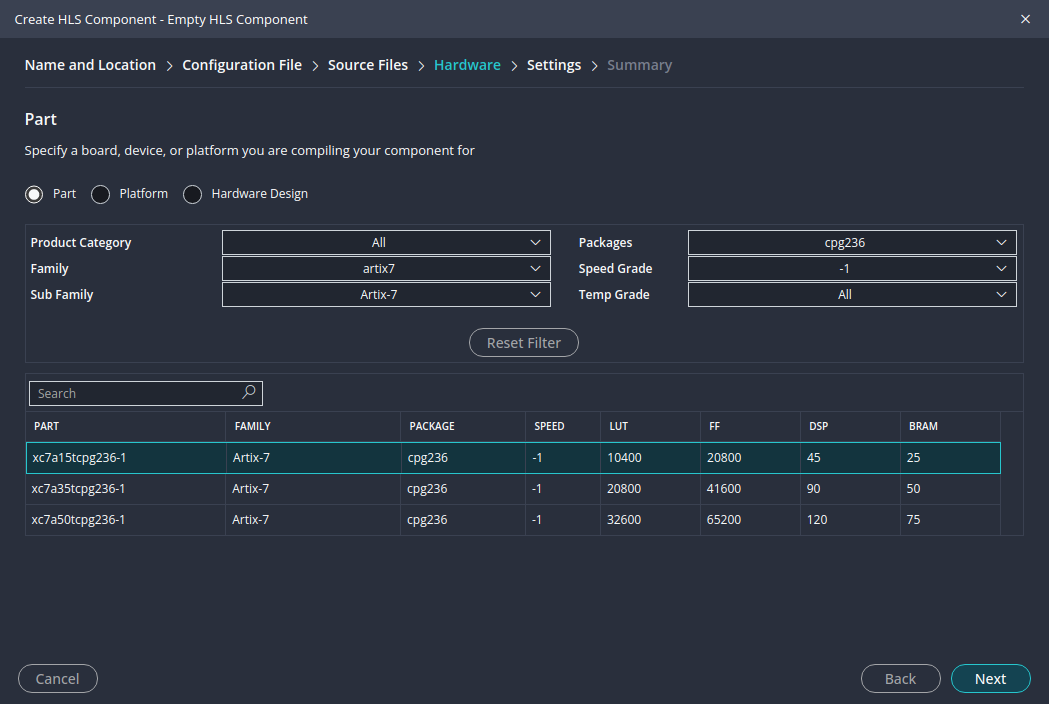
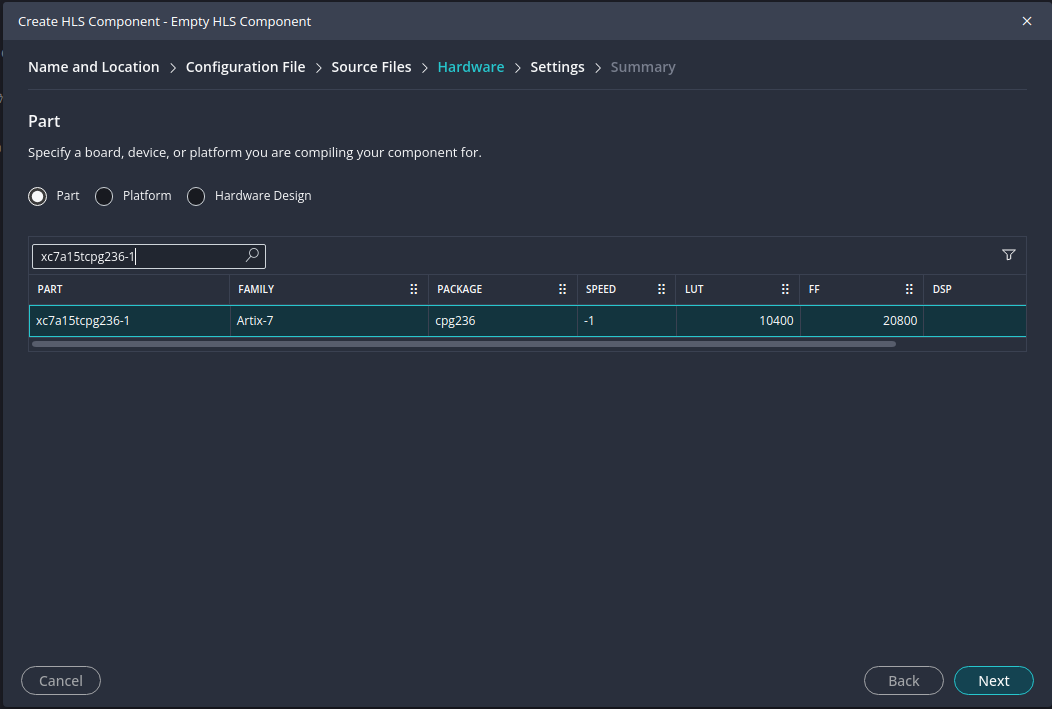
Update auf Vivado 26.1

diff --git a/vitis_hls/tutorial_01/tutorial_01.md b/vitis_hls/tutorial_01/tutorial_01.md
@@ -27,7 +27,7 @@ workspace_dir
 
 ---
 ## Starting Vitis
-* You can launch Vitis in a terminal on the command line by using the following command (replace `<Vitis_Installation_Directory>/` with the path to your Vitis installation which should normally be `/opt/xilinx/Vitis/2024.1/`), where `<workspace>` indicates the workspace mentioned in [Workspaces and components](#workspaces-and-components):
+* You can launch Vitis in a terminal on the command line by using the following command (replace `<Vitis_Installation_Directory>/` with the path to your Vitis installation which should normally be `/opt/xilinx/2026.1/Vitis/`), where `<workspace>` indicates the workspace mentioned in [Workspaces and components](#workspaces-and-components):
 
 ```
 source <Vitis_Installation_Directory>/settings64.sh
@@ -35,7 +35,7 @@ vitis  -w <workspace>
 ```
 
 * Or you can start the Vitis GUI without a workspace with the command `vitis` on the command line and select an existing workspace in the Vitis GUI.
-* For the tutorial make a folder with the file manager (for example in your home directory) to be used as a workspace and start the Vitis GUI as described above. You should see the Vitis GUI as shown in the following image (There are already some recent workspaces in the image which you will not see when you open your Vitis IDE).
+* For the tutorial make a folder with the file manager (for example in your home directory) to be used as a workspace and start the Vitis GUI as described above. You should see the Vitis GUI as shown in the following image.
 
 ![Vitis GUI](images/hls_01.png)
 
@@ -68,15 +68,14 @@ vitis  -w <workspace>
 ![Source page](images/hls_04.png)
 
 
-* The _Select Part_ page of the wizard is opened. It is mandatory to select the correct FPGA part for which the component should be used later on. For this tutorial we use the Artix-7 part as shown in the next image. Proceed with `Next`. 
+* The _Select Part_ page of the wizard is opened. It is mandatory to select the correct FPGA part for which the component should be used later on. For this tutorial we use the Artix-7 part (xc7a15tcpg236-1) as shown in the next image. Proceed with `Next`. 
 
 ![Select part page](images/hls_05.png)
 
 
 * You will now see the _Settings_ page of the wizard. 
-	* The _Settings_ page lets you specify a clock period or frequency for the design, and a clock uncertainty. The default clock for the tool is a clock period of 10 ns (or 100 MHz), and a clock uncertainty of 27%. In this case enter the default clock frequency of 10 ns but change the uncertainty to 2 ns as shown in the image below.
-	* The _Settings_ page also lets you specify the _flow_target_ for the HLS component build process as being either to generate a Vivado IP or a Vitis kernel as described in [Target Flow Overview](https://docs.amd.com/r/4lwvWeCi9jb~DWzdfWuVQQ/P4DbGaxyPEWYEJfsO7o1Dw) in the Xilinx User Guide. The interface requirements of the Vivado IP or a Vitis kernel are different as explained in [Interfaces of the HLS Design](https://docs.amd.com/r/4lwvWeCi9jb~DWzdfWuVQQ/wEdlxulOAT50bjDEn06U5Q). The default _flow_target_ is the Vivado IP flow. Keep these default settings for this tutorial.
-	* Below the _flow_target_ you can also specify the _package.output.format_ for the tool to generate when packaging the design. The default output format is the Vivado IP, which generates a zip-file to be added to your IP catalog, letting you use the HLS generated RTL design in other designs.
+	* The _Settings_ page lets you specify a clock period or frequency for the design, and a clock uncertainty. The default clock for the tool is a clock period of 10 ns (or 100 MHz), and a clock uncertainty of 27%. In this case enter the default clock frequency of 10 ns but set the uncertainty to 2 ns as shown in the image below.
+	* The _Settings_ page also lets you specify the _package.output.format_ for the HLS component build process as being either to generate a Vivado IP or a Vitis kernel as described in [Target Flow Overview](https://docs.amd.com/r/4lwvWeCi9jb~DWzdfWuVQQ/P4DbGaxyPEWYEJfsO7o1Dw) in the Xilinx User Guide. The interface requirements of the Vivado IP or a Vitis kernel are different as explained in [Interfaces of the HLS Design](https://docs.amd.com/r/4lwvWeCi9jb~DWzdfWuVQQ/wEdlxulOAT50bjDEn06U5Q). The default is the Vivado IP flow (_ip_catalog_). Keep these default settings for this tutorial.
 	* The data you entered here and above are all stored in the configuration file.
 	* Select `Next` to proceed to the Summary page.
 
@@ -112,7 +111,7 @@ workspace_dir
 * The first step in a HLS project is to verify the correct function of the C code of the component. In order to test the component a _test bench_ is needed, which generates input data for the component and compares the output data with reference data. This is the same approach as in VHDL/Verilog design, the difference is that everything is coded in C/C++. So what we basically do here is to compile the code for the testbench and component and run the compiled code as application. 
 * First open the C sources in Vitis with the _Component Explorer_ and study the code for the component (`fir.c`) and the testbench (`fir_test.c`). In the component code you can see a loop _Shift_Accum_Loop_ which codes the functionality of an FIR filter with a shift register `shift_reg[N]` where the coefficients (argument `c[N]`) are multiplied with the shifted data and accumulated in the variable `acc` and returned via the pointer `y`. It is good practice to label loops in order to be able to identify them during analysis of the HLS synthesis results.  
 * The testbench (`fir_test.c`) defines the coefficients for the FIR filter in the variable `taps[N]`. In line 18 the file `out.gold.dat` is opened which contains the input data and the expected output data for comparison. In the loop the input and reference data is read and the component top level function is called in line 26. Finally the output data generated by the component is compared and an error flag is set, if there are discrepancies. An HLS testbench, i.e. the main function, needs to return a value, which is 0 in case of success and 1 if the output data of the component is not correct. This is important because the C/RTL Co-Simulation uses the same testbench and also checks the output of the generated VHDL or Verilog code against the reference data. This means that an HLS testbench always must be written in such a way that it is self-checking and generates a final pass (0) or fail (1) value as return value.
-* Run the C Simulation by pushing the `Run` button in the _Flow Navigator_ under `C Simulation`. A window will pop up and ask you if you want to enable the _Code Analyzer_, you can disable this feature for this tutorial. After simulation is completed you will see the output of the simulation below the editor window in the console area.  
+* Run the C Simulation by pushing the `Run` button in the _Flow Navigator_ under `C Simulation`. A window will pop up and ask you for some options, insert nothing and push `Run`. After simulation is completed you will see the output of the simulation below the editor window in the console area. You should see the PASS-Message from the testbench.
 * If you write yourself code you may want to use a debugger by pushing the `Debug` button instead of `Run`. Vitis now starts the debugger as shown in the image below. Here you have the standard debugger functions like _Continue_, _Step Over_, _Step Into_ etc. (marked in red). You can also watch the variables (marked in red) or set break points in the source code editor. It is very similar in functionality to the debugger in Visual Studio Code. For more information on the debugger you can consult the [Xilinx User Guide](https://docs.amd.com/r/en-US/ug1399-vitis-hls/Debugging-the-HLS-Component).
 * If you want to stop the debugger then push the red square button (`Stop`). In order to come back to the normal Vitis view, which you had before you started debugging, you have to push (most left pane) the _Vitis Components_ symbol (marked in green) in the tool bar .
 
@@ -121,16 +120,16 @@ workspace_dir
 
 ---
 ## C Synthesis
-* The most important step is the _C Synthesis_, which is in fact the High Level Synthesis (HLS) of the component coded in C/C++. To start the HLS go to the _Flow Navigator_ and push the `Run` button under `C Synthesis`. It will take some seconds depending on the compute power of your machine, when it is finished you will see _Synthesis finished successfully_ in the output console.
+* The most important step is the _C Synthesis_, which is in fact the High Level Synthesis (HLS) of the component coded in C/C++. To start the HLS go to the _Flow Navigator_ and push the `Run` button under `C Synthesis`. In the pop-up window push again `Run`. It will take some seconds depending on the compute power of your machine, when HLS is finished you will see _Synthesis finished successfully_ in the output console.
 * Go to the _Flow Navigator_, expand _REPORTS_ in the _C Synthesis_ section and push `Synthesis`. You should now see the synthesis report as shown in the next image. The most interesting informations are the _Timing Estimate_ and the _Performance & Resource Estimate_. As you can see in the report our constraint was a clock cycle time of _10 ns_ and Vitits estimates the critical path of the component to _6.86 ns_, so we have a slack of _3.14 ns_ which is comfortable. But this is only a rough estimate since the component has not yet be implemented. 
-* In the _Performance & Resource Estimate_ you can see the latency and interval values (16 clock cycles and 11 clock cycles). The latency is the time for one operation of the component, which means one operation lasts _16 x 10 ns = 160 ns_. The _Interval_ (shorthand for _Initiation Interval_) is the number of clock cycles before new inputs can be applied. Since we have 11 cycles for the _Interval_ this means that we could apply new input values before the operation of the component has finished (which takes 16 cycles). 
+* In the _Performance & Resource Estimate_ you can see the latency and interval values (16 clock cycles and 14 clock cycles). The latency is the time for one operation of the component, which means one operation lasts _16 x 10 ns = 160 ns_. The _Interval_ (shorthand for _Initiation Interval_) is the number of clock cycles before new inputs can be applied. Since we have 14 cycles for the _Interval_ this means that we could apply new input values before the operation of the component has finished (which takes 16 cycles). 
 * The performance is mainly determined by the loop, which iterates 11 times (_TRIP COUNT_). Each loop iteration needs 5 clock cycles (_ITERATION LATENCY_). The loop is operated in a pipelined manner, which you can also see in the report in the column _PIPELINED_. This means that loop iterations can start earlier, otherwise we would need _5 x 11 cycles = 55 cycles_ for all iterations. Loop pipelining is always applied automatically, since it is very effective. We will come back on pipelining in another tutorial.  
 
 ![Synthesis report](images/hls_10.png)
 
 * There are some more reports, for example the _Function Call Graph_, which shows you the function hierarchy (not really important for this tutorial). Another important report for analysis of the generated component hardware is the _Schedule Viewer_. If you open it you should see the scheduling of the hardware operation as shown in the next image. 
 * In the first column you will see some cryptic names, these refer to identifiers in the generated VHDL or Verilog code and represent operations in the hardware. In the upper row (marked in red) you will see numbers beginning from 0. These are the so-called _control states_ of the finite state machine (FSM), which controls the operation of the component. One control state equals one clock cycle. You can easily identify the loop _Shift_Accum_Loop_ which takes 5 cycles for one iteration (this corresponds to the value in the synthesis report). With the _Focus_ field (marked in red) you can set the focus to the loop, such that you can only inspect the loop. On the right side you can activate a legend (i-symbol marked in red).
-* Although this view may appear cryptic at a first glance, this is the main tool if you want to understand how the component operates and what could possibly be optimized. From experience the loops and memory accesses determine mainly the performance in terms of clock cycles and with some practice the schedule viewer can be helpful in analyzing the bottlenecks of your design. If you push one of the operations with the left mouse button you will see some green lines which show you the dependencies of the operations, which can be also helpful.
+* Although this view may appear cryptic at a first glance, this is the main tool if you want to understand how the component operates and what could possibly be optimized. The loops and memory accesses determine mainly the performance in terms of clock cycles and with some practice the schedule viewer can be helpful in analyzing the bottlenecks of your design. If you push one of the operations with the left mouse button you will see some green lines which show you the dependencies of the operations, which can be also helpful.
 
 ![Schedule viewer 1](images/hls_11.png)
 
@@ -146,35 +145,21 @@ workspace_dir
 
 ![VHDL code](images/hls_13.png)
 
-* Push the `Run` button in the section _C/RTL COSIMULATION_ in the _Flow Navigator_. When co-simulation has finished you should see the message marked in red in the next image in the console. In the console window there is a navigation area (marked in red) where you can switch between the console outputs of the tools.
-* Under _REPORTS_ select _ Cosimulation_ and you will see the _Performance & Resource Estimates_. If you compare this with the values of the synthesis report you may notice that the initiation interval is 15 cycles and not 11 cycles. If you scroll up in the console output there is a warning related to this problem:
-
-```
-WARNING: [HLS 200-626] This design is unable to schedule all read ports in the first II cycle. The RTL testbench may treat the design as non-pipelined
- ```
-* This is a pipelining issue, which means that new data can only be applied after 15 clock cycles. We will come back on pipelining issues in a later tutorial. 
+* Push the `Run` button in the section _C/RTL COSIMULATION_ in the _Flow Navigator_. In the pop-up window you can select under _hls.cosim.rtl_ if you either would like to verify the Verilog code (default) or the VHDL code. Select _vhdl_ and push `Run`. 
+* When co-simulation has finished you should see the message marked in red in the next image in the console. In the console window there is a navigation area (marked in red) where you can switch between the console outputs of the tools.
 
 ![Cosimulation](images/hls_14.png)
 
-* When you push on _Timeline Trace_ under the reports the timeline trace report is opened as shown in the next image. In our testbench `fir_test.c` we call the `fir` function 26 times and you see there are 26 executions of the hardware component in this view. Each execution needs 15 cycles, and there is always an overlap of 1 cycle, where new data is applied. So the total execution time is 390 cycles for all 26 executions of the component, which gives an average execution time of 15 clock cycles.
-
-![Timeline](images/hls_15.png)
-
-* You can see that there is also an additional report called `Wave Viewer`. This is basically starting the Vivado wave viewer where you could watch the waveform traces of the VHDL/Verilog simulation. It is greyed out by default and would need some special settings in the configuration file. We will skip this here.
+* You can see that there is also an additional report called `Wave Viewer`. This is basically starting the Vivado wave viewer where you could watch the waveform traces of the VHDL/Verilog simulation. It is greyed out by default and would need some special settings in the configuration file or in the pop-up window. We will skip this here.
 
 ---
 ## Package and Implementation
-* The last important step is to export the component as _IP Core_ such that it can be used in Vivado. Go to the _PACKAGE_ section in the _Flow Navigator_ and push `Run` (see image below). After a while you will see the message in the console marked in red which says that a zip-file `fir.zip` was generated in the folder `fir`, where the path is relative to the component folder such that you can find it in `<workspace>/fir/fir/fir.zip`. 
-* In addition the files of the IP Core are also generated in the Output section in the `impl` folder in the _Vitis Component Navigator_ as you can see in the image below (the true file path to this folder is `<workspace>/fir/fir/hls/impl`).
-
-![Package](images/hls_16.png)
+* The last important step is to export the component as _IP Core_ such that it can be used in Vivado. Go to the _PACKAGE_ section in the _Flow Navigator_ and push `Run` (see image below). Skip the entries in the pop-up window and push `Run` again. After a while you will see the message in the console marked in red which says that a zip-file `fir.zip` was generated in the folder `fir`, where the path is relative to the component folder such that you can find it in `<workspace>/fir/fir/fir.zip`. 
+* In addition the files of the IP Core are also generated in the Output section in the `impl` folder in the _Vitis Component Navigator_.
 
 * In order to use the IP Core in Vivado you have to include the folder `<workspace>/fir/fir` as a _repository_ in Vivado. Then you can use the IP Core in an _IP Integrator_ block diagram as shown in the image below. There are some options for the export which can all be specified in the configuration file, for more details refer to the [Vitis HLS documentation](https://docs.amd.com/r/en-US/ug1399-vitis-hls/Packaging-the-RTL-Design).
 
 ![Vivado](images/hls_17.png)
 
-* The very last step in the _Flow Navigator_ is _IMPLEMENTATION_, which is optional. If you push `Run` then logic synthesis and implementation (place&route) is run by running the corresponding Vivado tools in the background. Although it is not necessary to run the implementation (and it can take some time) it gives you the real numbers on resource usage and the critical path of the component. In the following image you see the results (report _Place and Route_) of the implementation in terms of resource usage and timing. You can see that the critical path (_CP_) is 5.692 ns and that is below that what HLS estimated (6.86 ns), so the estimate was too pessimistic. Finally things can change again with respect to the critical path when the component is embedded into a larger design in Vivado, but the target clock cycle of 10 ns should be safely achievable.
-
-![Vivado](images/hls_18.png)
-
+* The very last step in the _Flow Navigator_ is _IMPLEMENTATION_, which is optional. If you push `Run` then logic synthesis and implementation (place&route) is run by running the corresponding Vivado tools in the background. Although it is not necessary to run the implementation (and it can take some time) it gives you the real numbers on resource usage and the critical path of the component. 
 

diff --git a/vitis_hls/tutorial_01/tutorial_01_b.md b/vitis_hls/tutorial_01/tutorial_01_b.md
@@ -10,33 +10,31 @@
 ## Running the bash scripts
 * First download the complete folder `tutorial_01/reference_files` to your computer and rename the folder `reference_files` to `tutorial_01`. This folder will later on be your workspace which you will open in the Vitis GUI.
   * You can either download this whole Github repository or only the folder `reference_files` using a browser extension like [GitZip](https://gitzip.org).
-* We will first explain the folder structure of the workspace folder `tutorial_01`. In the workspace folder you find a bash script `run_demo.sh` which basically starts the two bash scripts `sol1.sh` and `sol2.sh` in the sub-folders `sol1` and `sol2`. These sub-folders hold the two variants or solutions (which are in the Vitis terminology two _components_ as explained above). What is also very important is the fact that all solutions use the same source code files in the folder `src`. This folder therefore must not be stored in a component folder but on the workspace level as shown below.
+* We will first explain the folder structure of the workspace folder `tutorial_01`. In the workspace folder you find two bash scripts `sol1.sh` and `sol2.sh`, which are used to run the two solutions. The solutions are stored in the folders `sol1` and `sol2`. In these folders the configuration files for the solutions are also stored.
+* All solutions use the same source code files in the folder `src`. This folder therefore must not be stored in a component folder but on the workspace level as shown below.
 
 ```
 tutorial_01
-    run_demo.sh
+    sol1.sh
+	sol2.sh
 	|-src
         ... (sources)
 	|-sol1
-		|-sol1_work
 		sol1_config.cfg
-        sol1.sh
 	|-sol2
-		|-sol2_work
 		sol2_config.cfg
-        sol2.sh
 ```
-* If you look into the bash script `sol1.sh` (`sol2.sh` is basically the same for `sol2`) you will find the following code. The first line says that this is a script to be executed as bash shell script. The second line sources the necessary settings from the Vitis installation. In the third line Vitis HLS is executed in script mode and with the `--config` switch we tell Vitis to use the configuration file, which can be found in the same folder. The last switch `--work_dir` specifies that this directory should be used for all output of Vitis. Do not confuse this directory with the Vitis workspace directory (which is in fact a bit confusing) which is the root directory `tutorial_01` in which we have the two components. 
+* If you look into the bash script `sol1.sh` (`sol2.sh` is basically the same for `sol2`) you will find the following code. The first line says that this is a script to be executed as bash shell script. The second line sources the necessary settings from the Vitis installation (check that this is the same path on your computer). In the third line Vitis HLS is executed in script mode and with the `--config` switch we tell Vitis to use the configuration file, which can be found in the solution folder. The last switch `--work_dir` specifies that this directory should be used for all output of Vitis. Do not confuse this directory with the Vitis workspace directory which is the root directory `tutorial_01` in which we have the two components. 
  
 ```
 #!/bin/bash
-source /opt/xilinx/Vitis/2024.1/settings64.sh
-v++ -c --mode hls --config ./sol1_config.cfg --work_dir sol1_work
+source /opt/xilinx/2026.1/Vitis/settings64.sh
+v++ -c --mode hls --config ./sol1/sol1_config.cfg --work_dir sol1
 ```
 
-* Before you can run the shell scripts you have to make them executable with `sudo chmod a+x run_demo.sh` (in a Linux terminal) and the same also for the two sub-scripts `sol1.sh` and `sol2.sh`.
-* Then go back to the workspace directory `tutorial_01` and execute the top-level script with `./run_demo.sh` (in a Linux terminal). You should now see the output of Vitis while it is executed. Basically the HLS step is executed for both variants.
-* When Vitis is finished open the Vitis GUI. On the Welcome page under _Get Started_ push the `Open Workspace` button. Navigate to the workspace folder `tutorial_01` and select it. Now you should see the opened workspace as in the following image. In the _Vitis Components Explorer_ you can see two components `sol1` and `sol2`, `sol1` is selected in the _Flow Navigator_. For both components `C SYNTHESIS` has already been executed. 
+* Before you can run the shell scripts you have to make them executable with `sudo chmod a+x sol1.sh` (in a Linux terminal) and the same also for `sol2.sh`. Then execute the scripts with `./sol1.sh` (and afterwards `./sol2.sh`) in a Linux terminal. You should now see the output of Vitis while it is executed. Basically the HLS step is executed for both variants.
+* When Vitis is finished open the Vitis GUI. On the Welcome page under _Get Started_ push the `Set Workspace` button. Navigate to the workspace folder `tutorial_01` and select it. Push `Update` in the next window.
+* Now you should see the opened workspace as in the following image. In the _Vitis Components Explorer_ you can see two components `sol1` and `sol2`, `sol1` is selected in the _Flow Navigator_. For both components `C SYNTHESIS` has already been executed. 
 
 ![Vitis GUI with opened workspace](images/hls_30.png)
  
@@ -61,7 +59,7 @@ v++ -c --mode hls --config ./sol1_config.cfg --work_dir sol1_work
 
 ![Vitis GUI sol 2](images/hls_34.png)
 
-* The difference to [tutorial 1](tutorial_01.md#c-synthesis) can be explained if you look into the configuration file as shown in the next image (shown in text mode). There is an option `syn.compile.enable_auto_rewind=0` which disables the so-called _rewind_ option for pipelined loops (see https://docs.amd.com/r/en-US/ug1399-vitis-hls/Rewinding-Pipelined-Loops-for-Performance). This was enabled by default in [tutorial 1](tutorial_01.md#c-synthesis) and enables overlapping of successive calls to the function or component, which means that new input values could be applied earlier to the component. But, as we discussed in [tutorial 1](tutorial_01.md#crtl-cosimulation), there may be problems in the interfacing leading in sub-optimal operation of the component and thus the _auto rewind_ option may be useless. If you switch this option off, then you might save some hardware resources.
+* The difference to [tutorial 1](tutorial_01.md#c-synthesis) can be explained if you look into the configuration file as shown in the next image (shown in text mode). There is an option `syn.compile.enable_auto_rewind=0` which disables the so-called _rewind_ option for pipelined loops (see https://docs.amd.com/r/en-US/ug1399-vitis-hls/Rewinding-Pipelined-Loops-for-Performance). This was enabled by default in [tutorial 1](tutorial_01.md#c-synthesis) and enables overlapping of successive calls to the function or component, which means that new input values could be applied earlier to the component. 
 
 ![Vitis GUI sol 2 config](images/hls_35.png)
 
@@ -75,11 +73,13 @@ v++ -c --mode hls --config ./sol1_config.cfg --work_dir sol1_work
 ---
 ## Adding solutions to an existing workspace in the Vitis GUI
 * If you have setup a project/workspace with scripts, as described above, you can add additional solutions also from the Vitis GUI. This can be done by either setting up a new component as described in [tutorial 1](tutorial_01.md#creating-a-hls-component) where the component location is the workspace which has been setup with the scripts and the component uses the same source code files as the other components in the workspace. A much faster way is by _cloning_ a component. In the following we will add an additional solution `sol3` to our workspace `tutorial_01` by cloning `sol2`.
-* Select component `sol2` in the _Vitis Components Explorer_ and push the right mouse button, there should be an entry `Clone Component`. When you push this entry you should see a dialog as shown in the next image. Enter the name `sol3`. This will create the component in the sub-folder `sol3` and copies basically the configuration file from `sol2`, which then has the same name. It will refer to the same source code files as `sol2`. 
+* Select component `sol2` in the _Vitis Components Explorer_ and push the right mouse button, there should be an entry `Clone Component`. When you push this entry you should see a dialog as shown in the next image. Enter the name `sol3`. This will create the component in the sub-folder `sol3` and copies basically the configuration file from `sol2`, which then has unfortunately the same name (`sol2_config.cfg`). It will refer to the same source code files as `sol2`. You can see in the dialog that the source files are not copied. Although the configuration file has the same name, it is a different one since it is stored in the `sol3` directory.
 
 ![Vitis GUI additional component](images/hls_37.png)
 
-* Edit the configuration file of `sol3` (in _Source Editor_ view) and delete the entry `syn.compile.enable_auto_rewind=0`. Then run _C Synthesis__ in the _Flow Navigator_ and finally compare all 3 solutions, as shown in the next image. Solution `sol3` uses the default optimizations _loop pipelining_ and _auto rewind_ as discussed above. When you compare `sol2` and `sol3` you can see that `sol3` needs considerably more flipflops and LUTs for the _auto rewind_ optimization, as we have already mentioned above. 
+* You can also generate a new solution by copying the configuration file to a new solution directory (where you should rename the configuration file it) and then copying the shell script from the previous solution. 
+
+* Edit the configuration file of `sol3` (in _Source Editor_ view) and delete the entry `syn.compile.enable_auto_rewind=0`. Then run _C Synthesis__ in the _Flow Navigator_ and finally compare all 3 solutions, as shown in the next image. Solution `sol3` uses the default optimizations _loop pipelining_ and _auto rewind_ as discussed above. When you compare `sol2` and `sol3` you can see that `sol3` needs considerably more flipflops and LUTs for the _auto rewind_ optimization. 
 
 ![Solution comparison](images/hls_38.png)
 

diff --git a/vitis_hls/hls_overview.md b/vitis_hls/hls_overview.md
@@ -2,7 +2,7 @@
 
 Here you can find tutorials for the Xilinx Vitis HLS tool. For each tutorial you will find a documentation and the source codes and scripts (for each tutorial in a folder `reference_files`).
 
-The Vitis tool version used is 2024.1. We assume that you have an installation on a Linux computer running Ubuntu 22.04.
+The Vitis tool version used is 2026.1. We assume that you have an installation on a Linux computer running Ubuntu 24.04.
 
 ---
 ## Vitis HLS Tutorials
